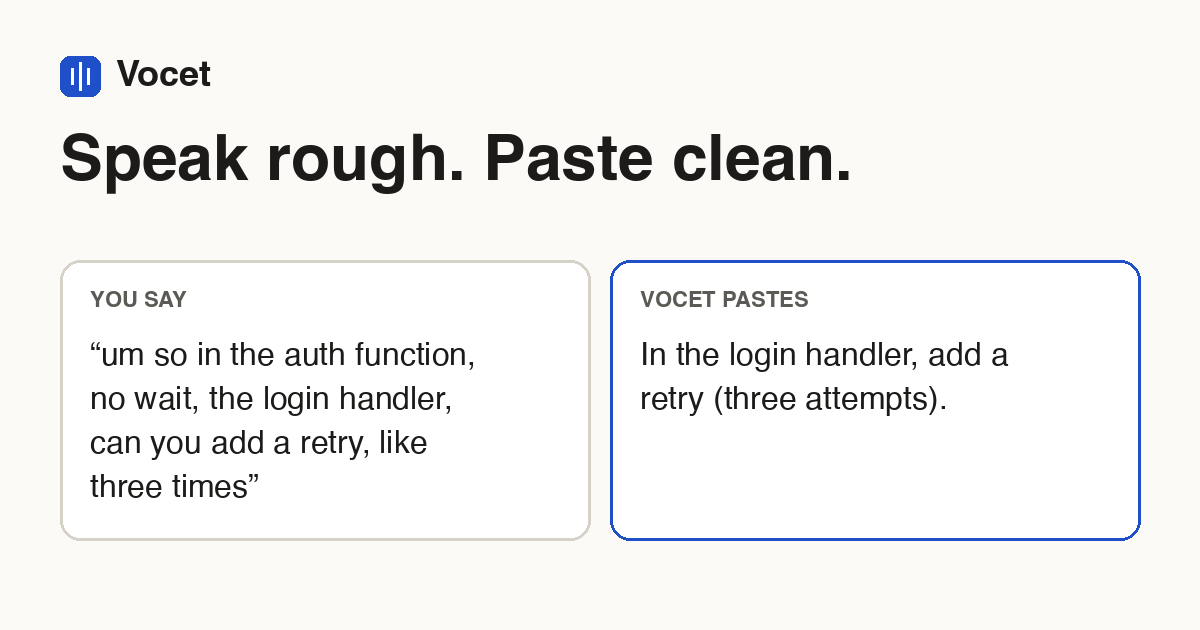
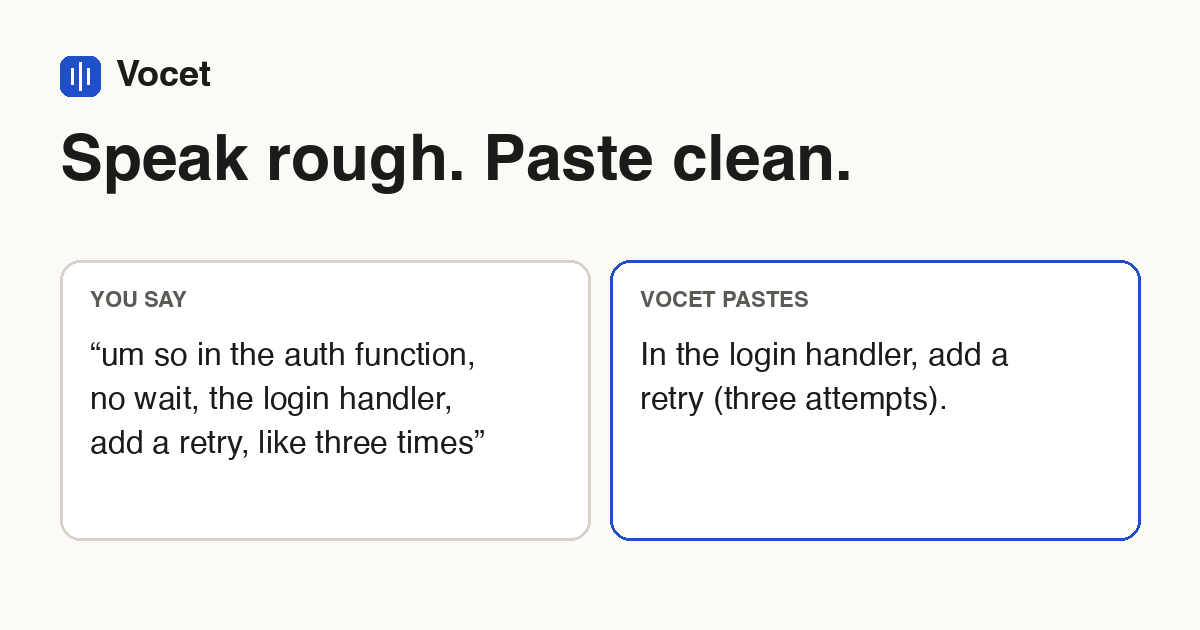
feat(site): final WEB1 copy after review

Changed region(s): [[0.0617, 0.6635, 0.4008, 0.7238], [0.0617, 0.754, 0.2158, 0.7841]]

diff --git a/site/index.html b/site/index.html
@@ -6,13 +6,13 @@
     <title>Vocet: Mac dictation that cleans up what you say</title>
     <meta
       name="description"
-      content="Hold one key and talk. Vocet removes fillers and false starts, fixes punctuation and pastes clean text into any Mac app. Made for students and engineers. Free beta."
+      content="Free Mac dictation for students and engineers. Vocet removes fillers and false starts, then pastes clean text where you type. Run it with OpenRouter or offline on your Mac."
     />
     <link rel="canonical" href="https://vocetlabs.com/" />
     <meta property="og:title" content="Vocet: Mac dictation that cleans up what you say" />
     <meta
       property="og:description"
-      content="Speak rough. Paste clean, in any Mac app. Free beta for students and engineers."
+      content="Speak rough. Paste clean. Free beta for students and engineers."
     />
     <meta property="og:url" content="https://vocetlabs.com/" />
     <meta property="og:type" content="website" />
@@ -21,18 +21,18 @@
     <meta property="og:image:height" content="630" />
     <meta
       property="og:image:alt"
-      content="Spoken: um so in the auth function, no wait, the login handler, can you add a retry. Pasted: In the login handler, add a retry (three attempts)."
+      content="Spoken: um so in the auth function, no wait, the login handler, add a retry, like three times. Pasted: In the login handler, add a retry (three attempts)."
     />
     <meta name="twitter:card" content="summary_large_image" />
     <meta name="twitter:title" content="Vocet: Mac dictation that cleans up what you say" />
     <meta
       name="twitter:description"
-      content="Speak rough. Paste clean, in any Mac app. Free beta for students and engineers."
+      content="Speak rough. Paste clean. Free beta for students and engineers."
     />
     <meta name="twitter:image" content="https://vocetlabs.com/og.png" />
     <meta
       name="twitter:image:alt"
-      content="Spoken: um so in the auth function, no wait, the login handler, can you add a retry. Pasted: In the login handler, add a retry (three attempts)."
+      content="Spoken: um so in the auth function, no wait, the login handler, add a retry, like three times. Pasted: In the login handler, add a retry (three attempts)."
     />
     <script type="application/ld+json">
       {
@@ -568,10 +568,10 @@
 
     <main>
       <section class="wrap hero">
-        <h1>Speak rough. Paste clean, in any Mac app.</h1>
+        <h1>Speak rough. Paste clean.</h1>
         <p class="lede">
-          Hold one key and talk. Vocet cleans up fillers, false starts and punctuation, then pastes
-          the text where your cursor is: Claude Code, Cursor, Google Docs, Notion, Slack or Mail.
+          Hold one key and talk. Vocet cuts fillers and false starts, fixes punctuation, and pastes
+          where you type: Google Docs, Notion, Claude Code, Cursor, Slack or Mail.
         </p>
         <div class="actions">
           <a class="btn" data-download href="https://github.com/gargankit90/dictation-app/releases"
@@ -579,14 +579,22 @@
           >
           <a href="https://github.com/gargankit90/dictation-app">Source on GitHub</a>
         </div>
-        <p class="fine">Free beta. Needs macOS 13 or later and an Apple silicon Mac.</p>
+        <p class="fine">macOS 13 or later · M1 or newer Mac · Free beta</p>
 
         <div class="ba">
           <div class="card">
-            <p class="label">You say</p>
+            <p class="label">Student says</p>
+            <p>“so basically the treaty failed because, well actually, it lacked enforcement”</p>
+          </div>
+          <div class="card after">
+            <p class="label">Vocet pastes</p>
+            <p>The treaty failed because it lacked enforcement.</p>
+          </div>
+          <div class="card">
+            <p class="label">Engineer says</p>
             <p>
-              “um so in the auth function, no wait, the login handler, can you add a retry, like
-              three times”
+              “um so in the auth function, no wait, the login handler, add a retry, like three
+              times”
             </p>
           </div>
           <div class="card after">
@@ -603,15 +611,15 @@
             <div class="card">
               <h3>Engineers</h3>
               <p>
-                Long prompts to Claude Code, Cursor and Codex. PR and code-review comments. Slack
-                replies. Docs.
+                Long prompts for Claude Code, Cursor or Codex. Code-review comments. Slack replies.
+                Docs.
               </p>
             </div>
             <div class="card">
               <h3>Students</h3>
               <p>
-                Lecture and reading notes. First drafts of essays and reports. Emails. Questions to
-                an AI tutor.
+                Lecture notes. Essay and lab drafts. Prompts to AI tutors and coding assistants.
+                Emails to professors.
               </p>
             </div>
           </div>
@@ -622,21 +630,20 @@
         <h2>Two ways to run</h2>
         <div class="cols">
           <div class="card">
-            <h3>Connect OpenRouter</h3>
+            <h3>Connect OpenRouter (default)</h3>
             <p>
-              Vocet is free. Click Connect OpenRouter and authorize your account. If you need
-              credits, OpenRouter’s minimum top-up is $5. About $0.70 per 1,000 dictations.
+              Vocet is free. OpenRouter, the AI service you pay directly, charges about $0.70 per
+              1,000 dictations; the minimum top-up is $5.
             </p>
           </div>
           <div class="card">
-            <h3>On this Mac only</h3>
-            <p>Free and private. A one-time 4.4 GB download, works offline, English.</p>
+            <h3>On this Mac: $0, no account or card</h3>
+            <p>Offline, English. One-time 4.4 GB download. Your audio and text stay on your Mac.</p>
           </div>
         </div>
         <p class="note">
-          We publish our cleanup prompts, model choices and
-          <a href="https://github.com/gargankit90/dictation-app/tree/main/eval">eval harness</a> on
-          GitHub.
+          See the cleanup prompts, models and accuracy tests we use on
+          <a href="https://github.com/gargankit90/dictation-app/tree/main/eval">GitHub</a>.
         </p>
       </section>
 
@@ -647,18 +654,18 @@
             <div class="card">
               <h3>Connect OpenRouter</h3>
               <p>
-                Audio goes through OpenRouter to OpenAI for transcription. The text goes through
-                OpenRouter to a zero-data-retention cleanup provider. There is no Vocet server.
+                OpenRouter sends your audio to OpenAI to turn it into text and routes the text to a
+                provider for cleanup. Vocet doesn’t run a server that receives your dictations.
               </p>
             </div>
             <div class="card">
-              <h3>On this Mac only</h3>
-              <p>Audio and text stay on your Mac.</p>
+              <h3>On this Mac</h3>
+              <p>Your audio and dictation text stay on your Mac.</p>
             </div>
           </div>
           <p class="note">
-            In both modes your history stays on your Mac. Anonymous usage and error reports are on
-            by default and can be turned off in Settings → Privacy. Details:
+            In both modes your history stays on your Mac. Usage and error reports are on by default;
+            turn them off in Settings → Privacy. Details:
             <a href="https://github.com/gargankit90/dictation-app/blob/main/docs/privacy.md"
               >privacy notes</a
             >.
@@ -671,37 +678,37 @@
         <details>
           <summary>What does it cost?</summary>
           <p>
-            Vocet is free during the beta. With On this Mac only there is nothing else to pay. With
-            Connect OpenRouter you pay OpenRouter for what you use: about $0.70 per 1,000
-            dictations, with a $5 minimum top-up.
+            Vocet is free during the beta. On this Mac there is nothing else to pay. With Connect
+            OpenRouter you pay OpenRouter for what you use: about $0.70 per 1,000 dictations, with a
+            $5 minimum top-up.
           </p>
         </details>
         <details>
-          <summary>How is this different from macOS Dictation?</summary>
+          <summary>What does Vocet clean up?</summary>
           <p>
-            Cleanup. Dictation types what you said, fillers and false starts included. Vocet removes
-            them and fixes the punctuation before it pastes.
+            Fillers like “um”, false starts and self-corrections, and punctuation. It keeps what you
+            meant and drops how you stumbled getting there.
           </p>
         </details>
         <details>
-          <summary>Why does it need Accessibility?</summary>
+          <summary>Why does Vocet need Accessibility access?</summary>
           <p>
             To press paste for you in the app you are using, and to notice the hotkey. Vocet does
             not read what is on your screen.
           </p>
         </details>
         <details>
-          <summary>What if the paste misses?</summary>
+          <summary>What if my text doesn’t paste?</summary>
           <p>
             Use Copy last. It puts your most recent text back on the clipboard so you can paste it
             yourself.
           </p>
         </details>
         <details>
-          <summary>Is the code available?</summary>
+          <summary>Can I see the source code?</summary>
           <p>
-            It is source available, under the Functional Source License (FSL-1.1-ALv2). You can read
-            and build the code, and each version becomes Apache 2.0 after two years.
+            Yes. It is source available under the Functional Source License (FSL-1.1-ALv2). You can
+            read and build the code, and each version becomes Apache 2.0 after two years.
           </p>
         </details>
       </section>
